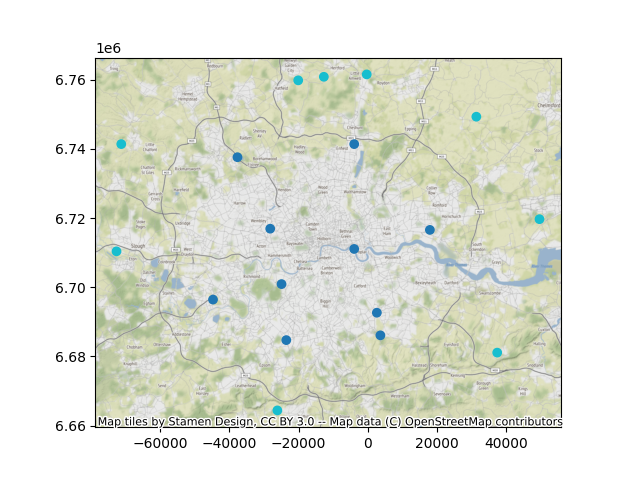
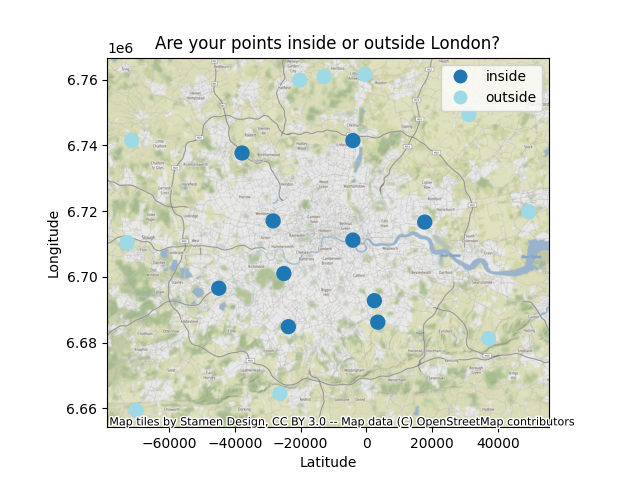
Fix: Adding labels and legend to creative task plots

Changed region(s): [[0.0625, 0.0625, 0.9062, 1.0]]

diff --git a/creative_task.py b/creative_task.py
@@ -109,7 +109,7 @@ def main():
     out_path = 'classified_london_points.csv'
     exportcsv(out_path, id, classification, xs, ys)
 
-    plotter.show()
+    plotter.show('London Points.png')
 
 #1. opening up the CSV with pandas
     df = pd.read_csv('classified_london_points.csv')
@@ -121,7 +121,7 @@ def main():
 
     points = gpd.GeoDataFrame(df, geometry = london_points)
     temp = points.to_crs(epsg=3857)
-    ax = temp.plot(column=points.classification)
+    ax = temp.plot(column=points.classification, categorical = True, markersize = 100,legend = True, cmap = 'tab20')
     ctx.add_basemap(ax)
 
     #Convert the polygon into shapefile
@@ -130,6 +130,10 @@ def main():
     # df1 = gpd.GeoDataFrame(df1, crs = 'epsg:27700')
     # poly = Polygon([(p.x, p.y) for p in df1.geometry])
     # at = poly
+    plt.ylabel('Longitude')
+    plt.xlabel('Latitude')
+    plt.title('Are your points inside or outside London?')
+
     plt.show()
 
 
